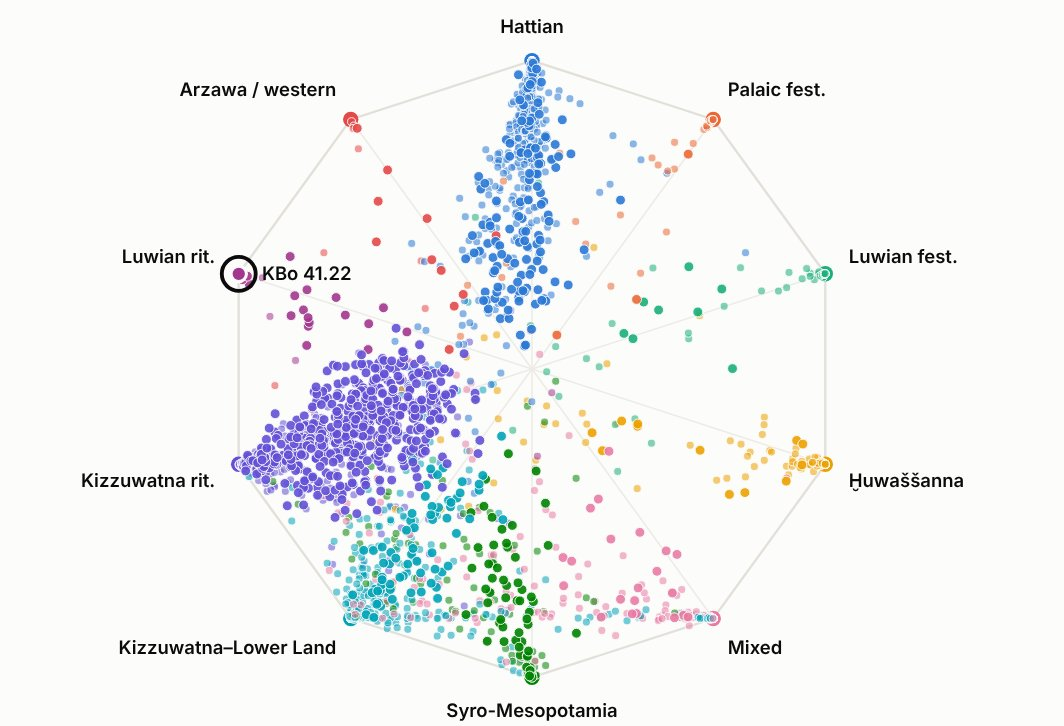
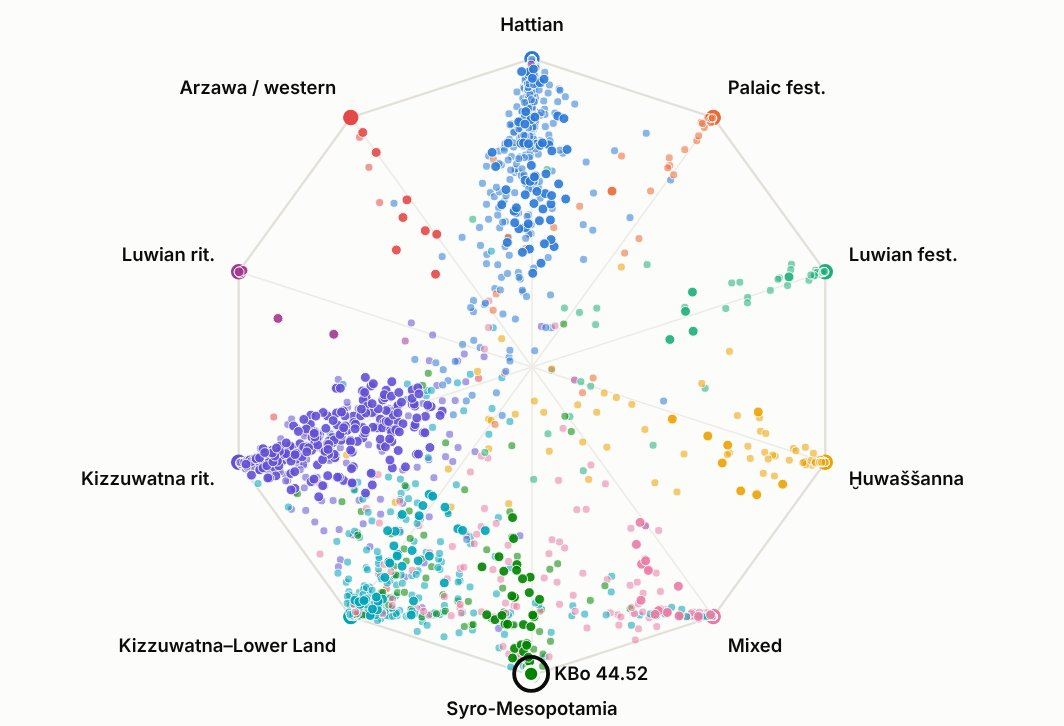
Example fragment KBo 44.52; KBo 41.22 as the restorations slide
Method pipeline, title line (LÚḪAL šarā dāi, KBo 44.52 5′, on the tablet),
wheel and gallery screenshots and default examples move to KBo 44.52, placed
in both A and C. New carousel slide (build/make_restorations.mjs): KBo 41.22
placed with the Luwian rituals only through restored words. Screenshots
re-rendered from version C; the quick check names the data version.

Claude-Session: https://claude.ai/code/session_01RmsCBGp8ksh8J8aac8pDDU

diff --git a/index.html b/index.html
@@ -10,7 +10,7 @@
 <body class="home">
 <header class="hero">
   <div class="hero-in">
-    <p class="cune" lang="hit" title="pa-an-ga-u-wa-aš EME-an, “the tongue of the multitude”, one of the phrases that place KBo 41.22 with the Luwian rituals">𒉺𒀭𒂵𒌋𒉿𒀸 𒅴𒀭</p>
+    <p class="cune" lang="hit" title="LÚḪAL šarā dāi, “the diviner takes (it) up”: KBo 44.52, line 5′, on the tablet (LÚ damaged)">𒇽𒄬 𒊭𒊏𒀀 𒁕𒀀𒄿</p>
     <h1 class="wordmark">Orphans <span class="amp">&amp;</span> Archetypes</h1>
     <p class="tagline">Finding a home for every Hittite fragment</p>
     <p class="lede">Where does a Hittite fragment belong? This tool compares any fragment with the entire digitised Hittite corpus, word by word and sign by sign, and shows the textual tradition, the compositions and the manuscripts it is closest to, with the evidence for each.</p>
@@ -23,12 +23,13 @@
 
   <section class="card quick" aria-labelledby="qTitle">
     <h2 id="qTitle">Check a text</h2>
-    <p class="sub">Type a text number (<a href="#" data-try="KBo 41.22">KBo 41.22</a>, <a href="#" data-try="HT 49">HT 49</a>, <a href="#" data-try="EBo 133">EBo 133</a>), paste a TLHdig or Konkordanz link, or paste a transliteration.</p>
+    <p class="sub">Type a text number (<a href="#" data-try="KBo 44.52">KBo 44.52</a>, <a href="#" data-try="HT 49">HT 49</a>, or <a href="#" data-try="KBo 41.22">KBo 41.22</a>, whose placement rests on restored words), paste a TLHdig or Konkordanz link, or paste a transliteration.</p>
     <form id="qForm" class="qrow">
-      <textarea id="qIn" rows="2" spellcheck="false" placeholder="KBo 41.22, or {NINDA}ta-kar-mu-un pár-ši-ia 1-ŠU e-ku-zi …" aria-label="Text number or transliteration"></textarea>
+      <textarea id="qIn" rows="2" spellcheck="false" placeholder="KBo 44.52, or {NINDA}ta-kar-mu-un pár-ši-ia 1-ŠU e-ku-zi …" aria-label="Text number or transliteration"></textarea>
       <button type="submit" class="primary">Check</button>
     </form>
     <p class="small muted" id="qMsg"></p>
+    <p class="small muted" id="qVer"></p>
     <div id="qOut" hidden>
       <div class="qhead">
         <div>

diff --git a/js/home.js b/js/home.js
@@ -1,4 +1,5 @@
 // The quick check of the opening page: one box, the main results at once, links to the full tools.
+import * as V from "./data.js";
 import * as A from "./analyse.js";
 import * as D from "./draw.js";
 import * as P from "./portal.js";
@@ -15,7 +16,7 @@ async function check(input) {
   if (!q) return;
   if (q.cth) { location.href = `browse.html#open=${q.cth}`; return; }
   if (q.text && q.text.split(/\s+/).length < 3 && /^[A-Za-z]+\s*\d/.test(q.text)) {
-    $("qMsg").textContent = `"${q.text}" is not a text of TLHdig Beta 0.3. Try a siglum like KBo 41.22, or paste a transliteration.`;
+    $("qMsg").textContent = `"${q.text}" is not a text of TLHdig Beta 0.3. Try a siglum like KBo 44.52, or paste a transliteration.`;
     return;
   }
   $("qMsg").textContent = "Reading the corpus (about 5 MB, once per visit)…";
@@ -70,3 +71,5 @@ $("qIn").addEventListener("keydown", e => { if (e.key === "Enter" && !e.shiftKey
 for (const a of document.querySelectorAll("[data-try]")) a.onclick = e => { e.preventDefault(); $("qIn").value = a.dataset.try; check(a.dataset.try); };
 const asked = new URLSearchParams(location.hash.slice(1)).get("q");
 if (asked) { $("qIn").value = asked; check(asked); }
+
+document.getElementById("qVer").innerHTML = `Data: ${V.LABEL}. Switch versions in the settings bar of the tool pages; <a href="about.html">About</a> explains the difference.`;

diff --git a/closest.html b/closest.html
@@ -18,7 +18,7 @@
   <section class="card span2">
     <form class="row" id="form" style="margin:0">
       <label class="small" for="inp">Text</label>
-      <textarea id="inp" rows="2" spellcheck="false" placeholder="KBo 41.22, a TLHdig or Konkordanz link, or a transliteration" style="flex:1 1 30em;min-height:2.6em"></textarea>
+      <textarea id="inp" rows="2" spellcheck="false" placeholder="KBo 44.52, a TLHdig or Konkordanz link, or a transliteration" style="flex:1 1 30em;min-height:2.6em"></textarea>
       <button type="submit" class="primary">Show</button>
     </form>
     <p class="small muted" id="msg"></p>

diff --git a/js/closest.js b/js/closest.js
@@ -77,6 +77,6 @@ function submit(input) {
 $("form").onsubmit = e => { e.preventDefault(); submit($("inp").value); };
 $("inp").addEventListener("keydown", e => { if (e.key === "Enter" && !e.shiftKey) { e.preventDefault(); submit($("inp").value); } });
 const h = new URLSearchParams(location.hash.slice(1));
-const start = h.get("id") ?? h.get("text") ?? "KBo 41.22";
+const start = h.get("id") ?? h.get("text") ?? "KBo 44.52";
 $("inp").value = start;
 submit(start);

diff --git a/CHANGELOG.md b/CHANGELOG.md
@@ -2,10 +2,12 @@
 
 ## 1.1.0 (2026-11-10)
 
-- Data versions: `data/` is now `data/<version>/` with `data/versions.json`; a "Broken and restored signs" setting chooses the version (C: preserved signs and supported restorations, the main results; A: the editor's full text). The data built so far is A; C follows with the damage-aware parser. Footer and exports name the version.
+- Data versions: `data/` is now `data/<version>/` with `data/versions.json`; a "Broken and restored signs" setting chooses the version (C: preserved signs and supported restorations, the main results; A: the editor's full text). C is built from the damage-aware token table (measuring-scribal-literacy c9a1cfa) and is the default; A has the same numbers as 1.0. Footer and exports name the version.
+- Text windows show restored signs in grey, damaged signs underlined and words that do not count in pale italic. Join checks treat signs off the tablet as matching anything (as run_join_candidates.py).
+- Carousel: collages ranked from the signs on the tablet (C); the KBo 59.124 join slide is dropped (rank 18 in C); new slide on KBo 41.22, placed only through restored words. About gives the C figures, with A for comparison.
 
-- New title design on the opening page: the name set in Cormorant Garamond on a clay-coloured band, with a line of cuneiform from KBo 41.22 and the tagline "Finding a home for every Hittite fragment"; the other pages carry the name above their title.
-- Carousel: the "Method pipeline" slide (five steps with KBo 41.22, written for the screen) replaces the paper's pipeline and worked-example figures; the Browse screenshot is removed.
+- New title design on the opening page: the name set in Cormorant Garamond on a clay-coloured band, with a line of cuneiform from KBo 44.52 (preserved on the tablet) and the tagline "Finding a home for every Hittite fragment"; the other pages carry the name above their title.
+- Carousel: the "Method pipeline" slide (five steps with KBo 44.52, written for the screen) replaces the paper's pipeline and worked-example figures; the Browse screenshot is removed.
 - Opening text: "the entire digitised Hittite corpus" instead of "the whole of TLHdig".
 - Fonts are self-hosted (`fonts/`, SIL Open Font License).
 

diff --git a/README.md b/README.md
@@ -24,7 +24,7 @@ on every page and in every export.
 | `compare.html` | Word-by-word tf-idf comparison of two witnesses. |
 | `about.html` | The method in short, how far to trust it, data, how to cite, how to rebuild. |
 
-Links: `place.html#id=KBo%2041.22`, `closest.html#id=HT%2049`, `browse.html#open=470`, `index.html#q=EBo%20133`.
+Links: `place.html#id=KBo%2044.52`, `closest.html#id=HT%2049`, `browse.html#open=470`, `index.html#q=EBo%20133`.
 
 ## Data versions
 
@@ -56,7 +56,8 @@ verdict. Every table can be exported as CSV or JSON, the wheel and the rose as S
 | `build/build_data.py` | Writes `data/` from the TLHdig token table, using the experiments' model code. |
 | `build/make_collages.mjs`, `build/collages.json` | The photograph collages of the carousel. |
 | `build/make_screens.mjs` | The screenshots of the carousel. |
-| `build/make_pipeline.mjs` | The "Method pipeline" slide of the carousel (KBo 41.22, step by step). |
+| `build/make_pipeline.mjs` | The "Method pipeline" slide of the carousel (KBo 44.52, step by step). |
+| `build/make_restorations.mjs` | The KBo 41.22 slide: placed with the editors' restorations (A), too close to call from the tablet alone (C). |
 | `tests/check.mjs`, `tests/check_library.mjs` | Browser model against the Python export, and closest manuscripts and join checks against the Python case study (EBo 133). |
 
 ## Rebuild
